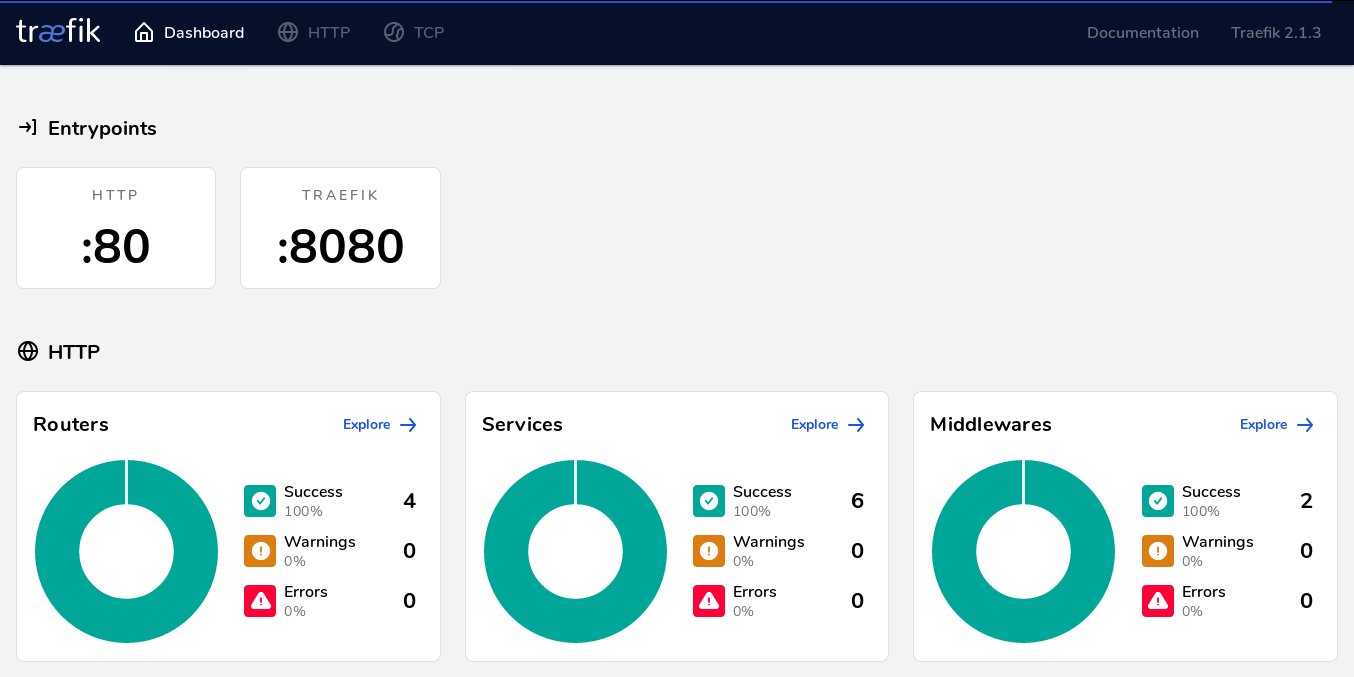
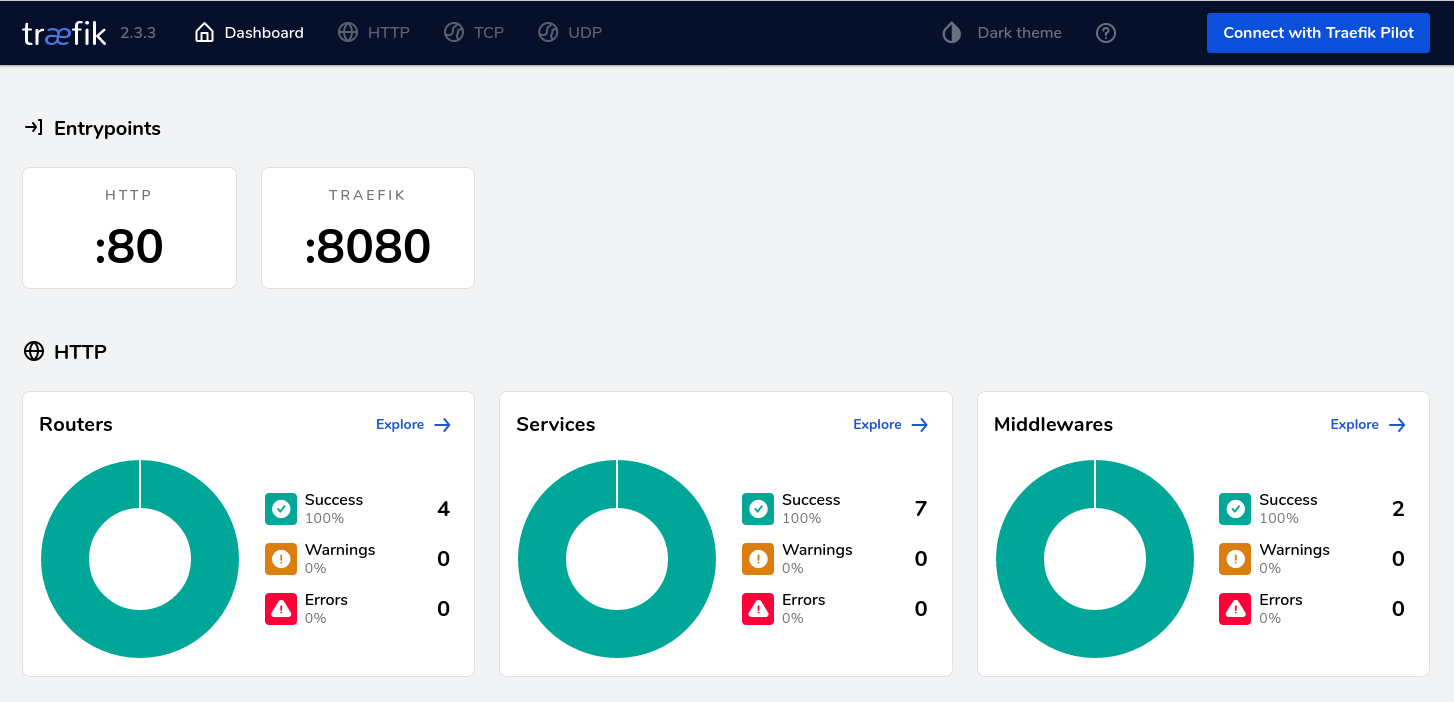
update post

diff --git a/_posts/2020-02-24-docker03.md b/_posts/2020-02-24-docker03.md
@@ -2,7 +2,8 @@
 layout: post
 title: "Docker to the Point - Part 3"
 categories: article tech
-excerpt: Create a DevOps Environment by Docker Compose 
+excerpt: Create a DevOps Environment by Docker Compose
+update: 2020-11-24
 ---
 
 ## Introduction
@@ -20,7 +21,7 @@ is more convenient as it is the integrated and default CI/CD tool for GitLab ser
 3. **Artifact/Image Repository** - After source code build, the output artifact must be shipped to the server. 
 Since Docker is used to run applications on servers, the final package must be deployed as Docker image. 
 So a registry is required in this case to mediate images between servers. [`Sonatype Nexus 3`](https://hub.docker.com/r/sonatype/nexus3) is 
-a professional repository management tool and it supports various development/build tools such as maven, npm, and so on.
+a professional repository management tool, and it supports various development/build tools such as maven, npm, and so on.
 
 4. **Deployment Servers/Cluster** - At the end of a CD pipeline, a server or cluster is required for executing the container(s). 
 The CD can be translated into following paradigms:
@@ -56,19 +57,23 @@ Then, follow the below steps (commands should be executed in `DevOps` directory)
 ### `.env`
 
 ```sh
-EXT_NET=mynet
+EXT_NET="devopsnet"
 VOL_BASE_DIR=/opt/docker_vols
 
-TRAEFIK_VER=2.1.3
+DOMAIN_BASE=mydomain.local
+GITLAB_DOMAIN="gitlab.${DOMAIN_BASE}"
+NEXUS_DOMAIN="nexus.${DOMAIN_BASE}"
 
-GITLAB_VER=12.1.0-ce.0
-GITLAB_DOMAIN=devops.ir
-GITLAB_RUNNER_VER=alpine-v12.7.1
-
-NEXUS_VER=3.20.1
+GITLAB_VER="13.6.0-ce.0"
+GITLAB_RUNNER_VER="v13.6.0"
+NEXUS_VER="3.28.1"
+TRAEFIK_VER="v2.3.3"
 ```
 
-**Note**: the `GITLAB_DOMAIN` is assigned to GitLab's container hostname and it is only useful for GilLab to generate the clone link 
+**Note**: The above format (double-quoted values) are supported in newer version of `docker-compose`. 
+For this tutorial, version `1.27.4` is used.
+
+**Note**: the `GITLAB_DOMAIN` is assigned to GitLab's container hostname, and it is only useful for GilLab to generate the clone link 
 as shown in the following picture:
 
 <img alt="git prj" src="/assets/images/docker/DevOps-gitlab-project.png" class="mx-auto d-block img-thumbnail w-75"/>
@@ -78,8 +83,7 @@ as shown in the following picture:
 ```sh
 #! /bin/bash
 
-CUR_DIR="$(dirname "$0")"
-source "${CUR_DIR}/.env"
+source .env
 
 NEXUS_VOL_DIR="${VOL_BASE_DIR}/nexus"
 mkdir -p "${NEXUS_VOL_DIR}"
@@ -109,7 +113,7 @@ services:
       - "traefik.http.services.gitlab.loadbalancer.server.port=80"
       - "traefik.http.routers.gitlab.service=gitlab"
       - "traefik.http.routers.gitlab.entrypoints=http"
-      - "traefik.http.routers.gitlab.rule=PathPrefix(`/`)"
+      - "traefik.http.routers.gitlab.rule=Host(`${GITLAB_DOMAIN:?err}`)"
     volumes:
       - ${VOL_BASE_DIR:?err}/gitlab/config:/etc/gitlab
       - ${VOL_BASE_DIR:?err}/gitlab/logs:/var/log/gitlab
@@ -130,20 +134,18 @@ services:
   nexus:
     image: sonatype/nexus3:${NEXUS_VER:?err}
     restart: always
-    environment:
-      NEXUS_CONTEXT: nexus
     labels:
       - "traefik.enable=true"
 
       - "traefik.http.services.nexus.loadbalancer.server.port=8081"
       - "traefik.http.routers.nexus.entrypoints=http"
       - "traefik.http.routers.nexus.service=nexus"
-      - "traefik.http.routers.nexus.rule=PathPrefix(`/nexus`)"
+      - "traefik.http.routers.nexus.rule=Host(`${NEXUS_DOMAIN:?err}`)"
 
       - "traefik.http.services.nexusDocker.loadbalancer.server.port=8082"
       - "traefik.http.routers.nexusDocker.service=nexusDocker"
       - "traefik.http.routers.nexusDocker.entrypoints=http"
-      - "traefik.http.routers.nexusDocker.rule=PathPrefix(`/v2`)"
+      - "traefik.http.routers.nexusDocker.rule=Host(`${NEXUS_DOMAIN:?err}`) && PathPrefix(`/v2/`)"
     ports:
       # Docker Group Repo
       - 8082:8082
@@ -193,8 +195,7 @@ networks:
 ```sh
 #! /bin/bash
 
-CUR_DIR="$(dirname "$0")"
-source "$CUR_DIR/.env"
+source .env"
 
 if [ "$1" ]; then
 
